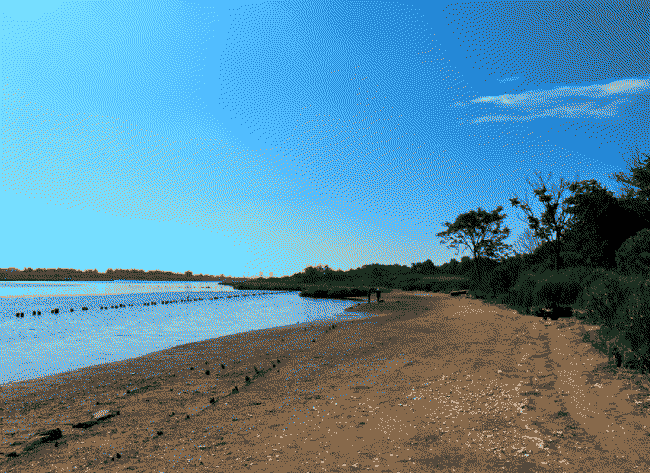
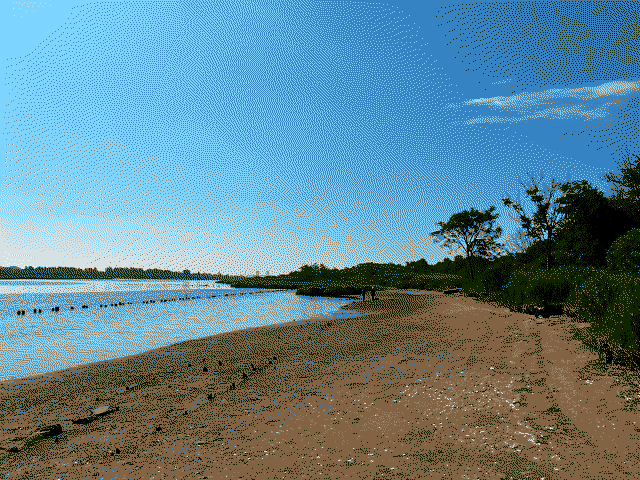
added all screens, increased arrow hitboxes

diff --git a/birdingSim1993.js b/birdingSim1993.js
@@ -12,7 +12,7 @@ let shotCoords,
   mirroredCoords = [0, 0];
 let screenWidth = 1280;
 let screenHeight = 960;
-let currentScreen = 0;
+let currentScreen = 2;
 let backgrounds;
 let cardinalDirections;
 let modelLoaded = false;
@@ -22,45 +22,129 @@ let savedTime;
 let totalTime = 1000;
 let cameraSound;
 
+// const screens = [
+//   {
+//     id: 0,
+//     url: '0.png',
+//     arrows: [
+//       { direction: 'w', x: 60, y: 450, screen: 1 },
+//       { direction: 'e', x: screenWidth - 180, y: 450, screen: 2 },
+//     ],
+//   },
+//   {
+//     id: 1,
+//     url: '1.png',
+//     arrows: [
+//       { direction: 'w', x: 60, y: 450, screen: 2 },
+//       { direction: 'e', x: screenWidth - 180, y: 450, screen: 0 },
+//     ],
+//   },
+//   {
+//     id: 2,
+//     url: '2.png',
+//     arrows: [
+//       { direction: 'w', x: 60, y: 450, screen: 0 },
+//       { direction: 'e', x: screenWidth - 180, y: 450, screen: 1 },
+//     ],
+//   },
+//   {
+//     id: 3,
+//     url: '3.png',
+//     arrows: [
+//       { direction: 'ne', x: 100, y: 100, screen: 2 },
+//       { direction: 'w', x: 100, y: 100, screen: 1 },
+//     ],
+//   },
+//   {
+//     id: 4,
+//     url: '4.png',
+//     arrows: [
+//       { direction: 'ne', x: 100, y: 100, screen: 1 },
+//       { direction: 'w', x: 100, y: 100, screen: 3 },
+//     ],
+//   },
+// ];
+
 const screens = [
   {
     id: 0,
-    url: '0.png',
     arrows: [
-      { direction: 'w', x: 40, y: 450, screen: 1 },
-      { direction: 'e', x: screenWidth - 160, y: 450, screen: 2 },
+      { direction: 'w', x: 60, y: 450, screen: 7 },
+      { direction: 'e', x: screenWidth - 180, y: 450, screen: 11 },
     ],
   },
   {
     id: 1,
-    url: '1.png',
-    arrows: [
-      { direction: 'w', x: 40, y: 450, screen: 2 },
-      { direction: 'e', x: screenWidth - 160, y: 450, screen: 0 },
-    ],
+    arrows: [{ direction: 'w', x: 60, y: 450, screen: 2 }],
   },
   {
     id: 2,
-    url: '2.png',
     arrows: [
-      { direction: 'w', x: 40, y: 450, screen: 0 },
-      { direction: 'e', x: screenWidth - 160, y: 450, screen: 1 },
+      { direction: 'w', x: 60, y: 450, screen: 3 },
+      { direction: 'e', x: screenWidth - 180, y: 450, screen: 1 },
     ],
   },
   {
     id: 3,
-    url: '3.png',
     arrows: [
-      { direction: 'ne', x: 100, y: 100, screen: 2 },
-      { direction: 'w', x: 100, y: 100, screen: 1 },
+      { direction: 'ne', x: 650, y: 500, screen: 10 },
+      { direction: 'sw', x: 450, y: screenHeight - 150, screen: 2 },
     ],
   },
   {
     id: 4,
-    url: '4.png',
     arrows: [
-      { direction: 'ne', x: 100, y: 100, screen: 1 },
-      { direction: 'w', x: 100, y: 100, screen: 3 },
+      { direction: 'w', x: 60, y: 450, screen: 9 },
+      { direction: 'e', x: screenWidth - 180, y: 450, screen: 10 },
+      { direction: 'n', x: 600, y: 40, screen: 5 },
+    ],
+  },
+  {
+    id: 5,
+    arrows: [
+      { direction: 's', x: 600, y: screenHeight - 160, screen: 4 },
+    ],
+  },
+  {
+    id: 6,
+    arrows: [{ direction: 'w', x: 60, y: 450, screen: 10 }],
+  },
+  {
+    id: 7,
+    arrows: [
+      { direction: 'e', x: screenWidth - 180, y: 450, screen: 0 },
+    ],
+  },
+  {
+    id: 8,
+    arrows: [{ direction: 'sw', x: 60, y: 450, screen: 11 }],
+  },
+  {
+    id: 9,
+    arrows: [
+      { direction: 's', x: 600, y: screenHeight - 160, screen: 4 },
+      {
+        direction: 'nw',
+        x: 475,
+        y: 500,
+        screen: 11,
+      },
+    ],
+  },
+  {
+    id: 10,
+    arrows: [
+      { direction: 'w', x: 60, y: 450, screen: 4 },
+      { direction: 's', x: 600, y: screenHeight - 160, screen: 3 },
+      { direction: 'e', x: screenWidth - 180, y: 450, screen: 6 },
+    ],
+  },
+  {
+    id: 11,
+    arrows: [
+      { direction: 's', x: 600, y: screenHeight - 160, screen: 9 },
+      { direction: 'w', x: 60, y: 450, screen: 0 },
+      { direction: 'ne', x: screenWidth - 180, y: 450, screen: 8 },
     ],
   },
 ];
@@ -77,6 +161,7 @@ function preload() {
     se: loadImage('images/arrows/se.png'),
     sw: loadImage('images/arrows/sw.png'),
     w: loadImage('images/arrows/w.png'),
+    prev: loadImage('images/arrows/prev.png'),
   };
 
   camera = loadImage('images/cameraTransparent2.png');
@@ -94,9 +179,16 @@ function preload() {
     2: loadImage('images/screens/2.png'),
     3: loadImage('images/screens/3.png'),
     4: loadImage('images/screens/4.png'),
+    5: loadImage('images/screens/5.png'),
+    6: loadImage('images/screens/6.png'),
+    7: loadImage('images/screens/7.png'),
+    8: loadImage('images/screens/8.png'),
+    9: loadImage('images/screens/9.png'),
+    10: loadImage('images/screens/10.png'),
+    11: loadImage('images/screens/11.png'),
   };
 
-  cameraSound = loadSound('sounds/snapshot_sound.mp3');
+  cameraSound = loadSound('sounds/snapshot.mp3');
   grassSound = loadSound('sounds/grass.mp3');
   font = loadFont('fonts/garamond-italic-sp.ttf');
 }
@@ -183,7 +275,7 @@ function overlapArrows() {
         arrow.y,
         arrowGraphic.width * 2.5,
         arrowGraphic.height * 2.5
-      ) > 90
+      ) > 50
     ) {
       hoveredArrow = arrow;
     }
